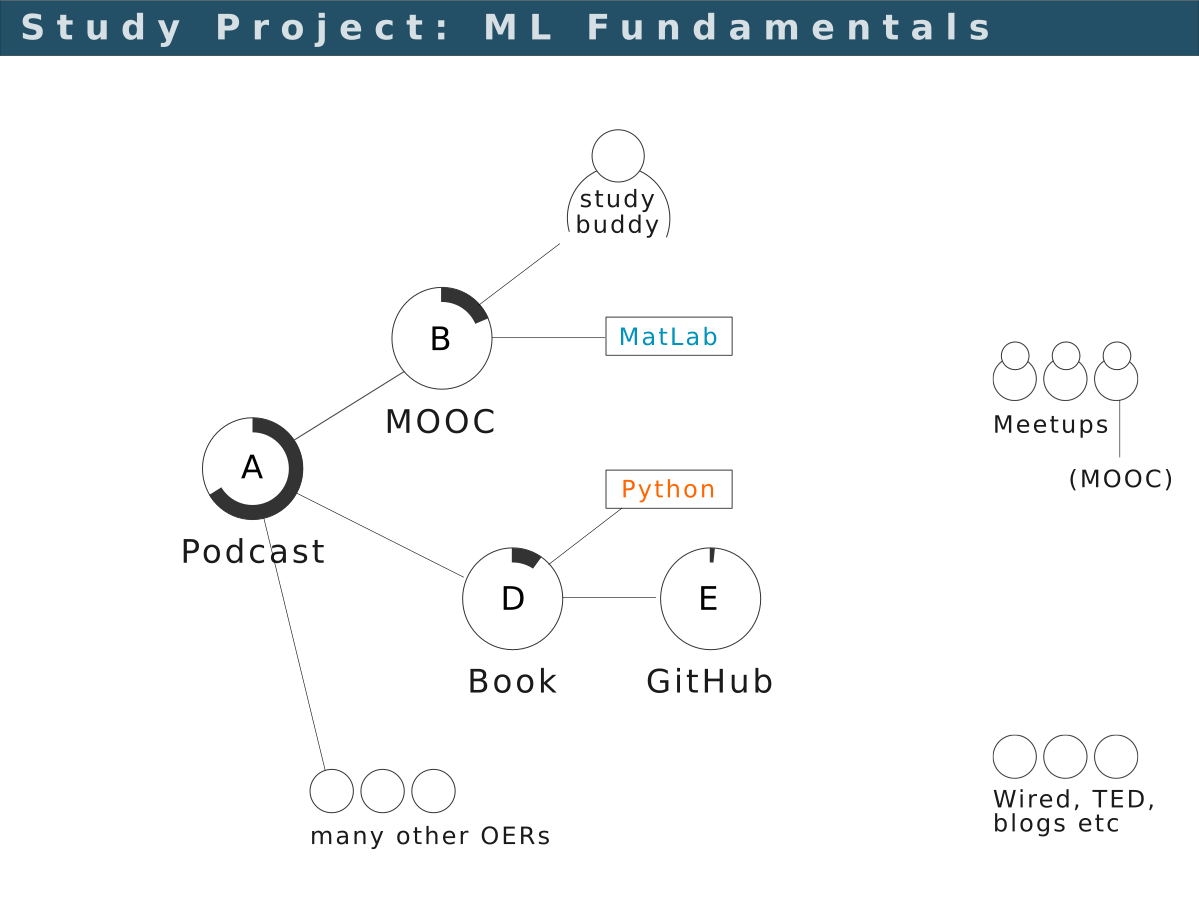
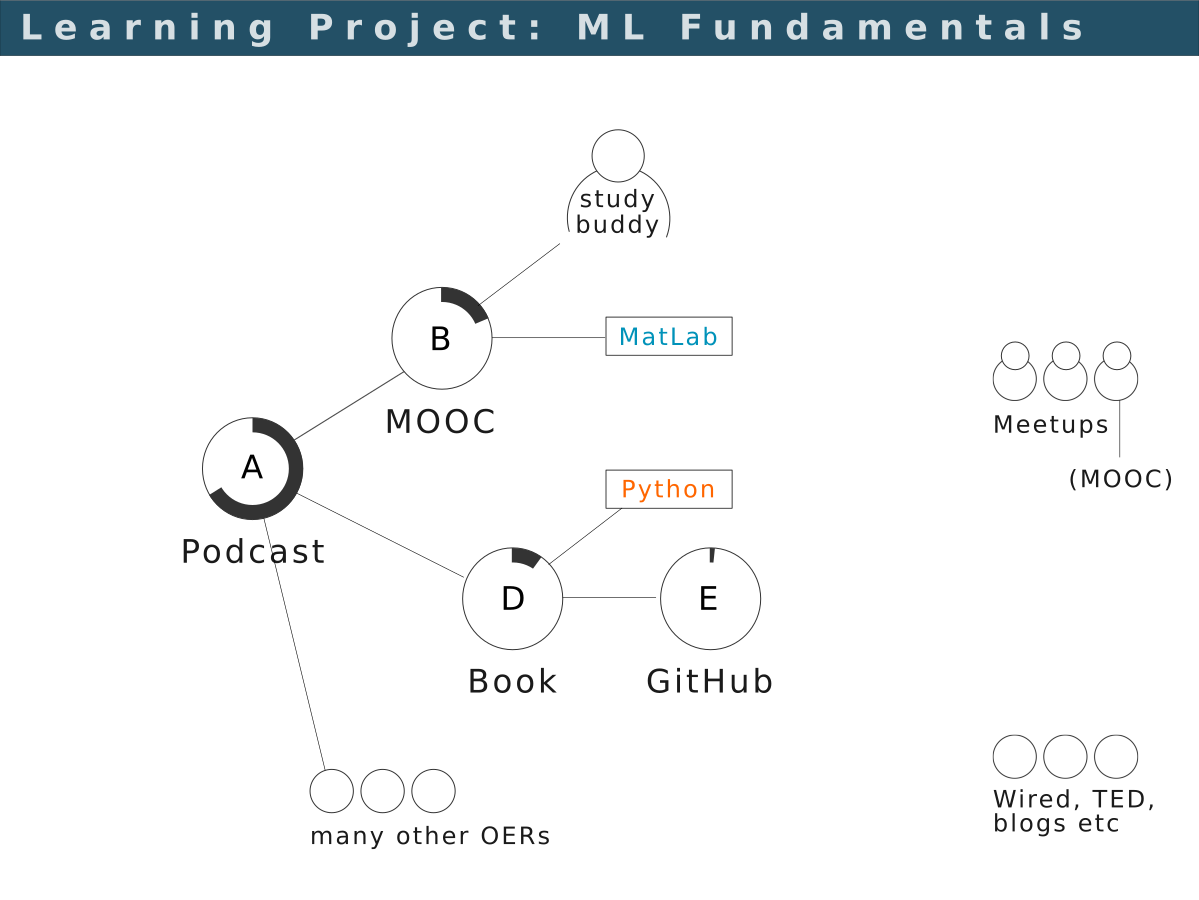
fix image

Changed region(s): [[0.3394, 0.0, 0.8949, 0.0622], [0.0, 0.0, 0.3086, 0.0622]]

diff --git a/PITCHME.md b/PITCHME.md
@@ -1,7 +1,7 @@
 #HSLIDE
 
 ## How might we support
-### someone's OER <span style="color:#3694e4">learning project</span>?
+### someone's <span style="color:#3694e4">learning project</span>?
 
 Examples and ideas based on a true story
 
@@ -16,7 +16,7 @@ Help someone in a <span style="color:#3694e4">learning project</span>
 OERs <span style="color:#e49436">effectively</span> and <span style="color:#e49436">efficiently</span>
 
 
----?image=project.png
+---?image=images/learning_project.png
 
 #HSLIDE
 
